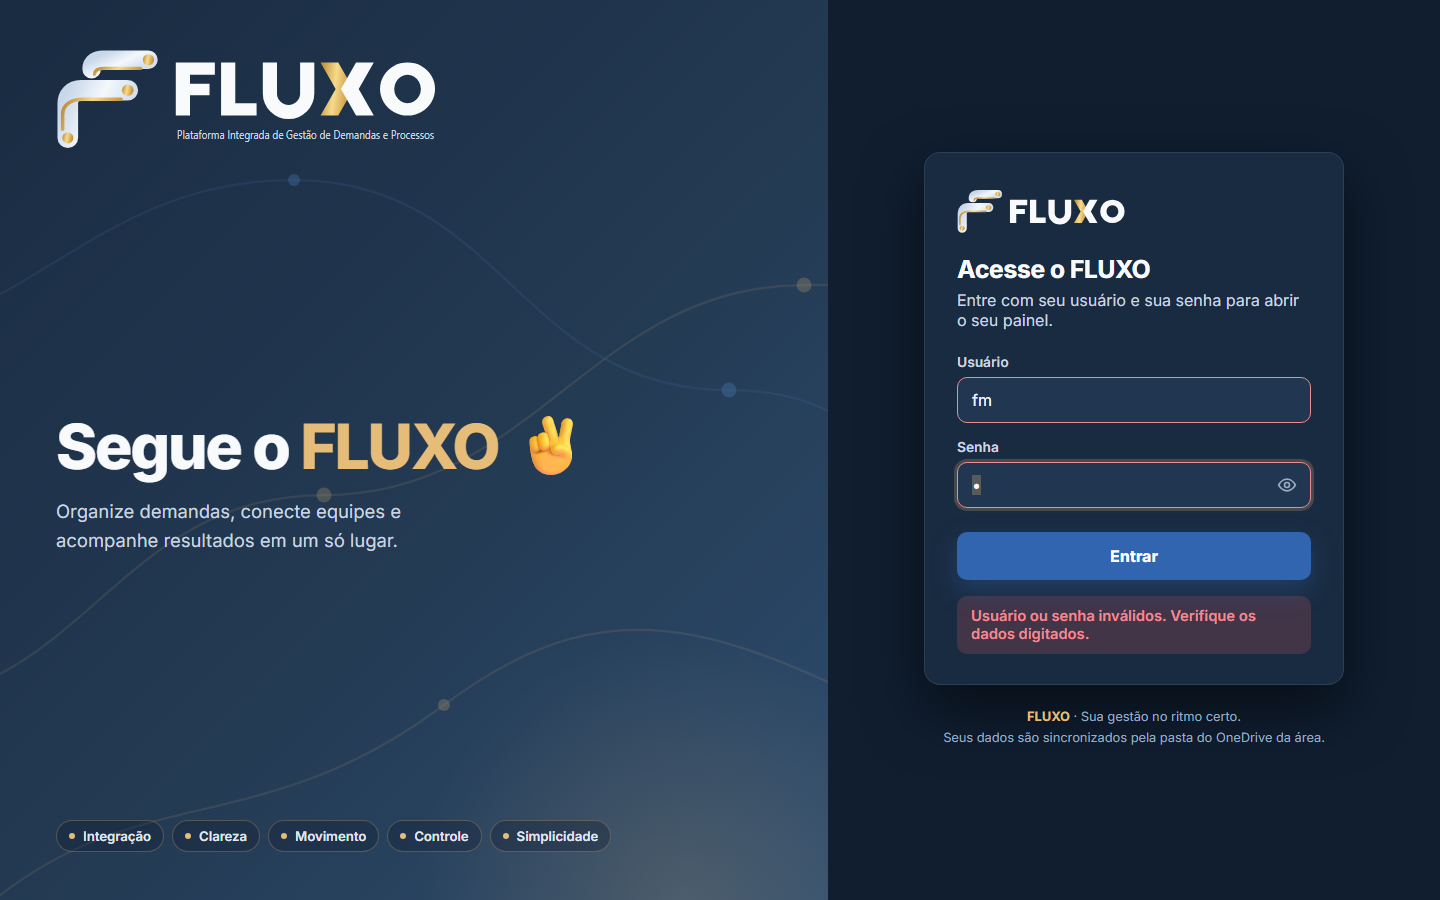
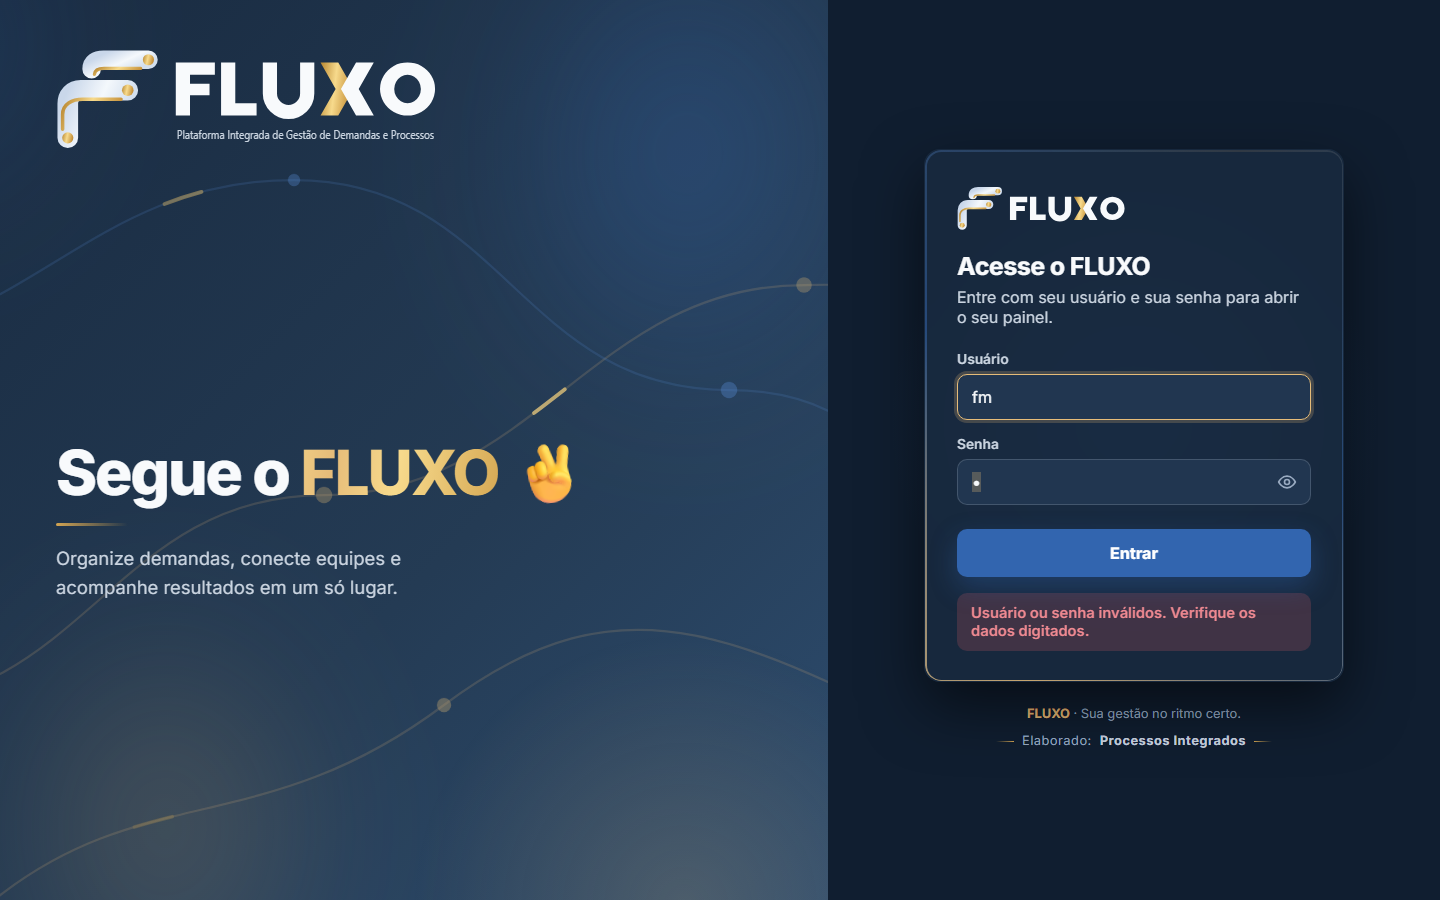
feat: login com efeitos premium e assinatura "Elaborado: Processos Integrados"
- Remove a faixa de princípios (Integração, Clareza, Movimento, Controle,
  Simplicidade).
- Rodapé: "Elaborado: Processos Integrados" no lugar do texto da pasta do
  OneDrive; o aviso de navegador só aparece fora do Edge/Chrome.
- Efeitos: rede com pulsos dourados, nós pulsando, aurora, luz do cursor,
  FLUXO dourado animado, entrada em cascata, cartão de vidro com borda viva
  e reflexo no botão Entrar; tudo para com "reduzir animações".

diff --git a/01-login/index.html b/01-login/index.html
@@ -20,10 +20,7 @@
         .fx-slogan { margin: 0; font-size: clamp(2.4rem, 4.6vw, 3.9rem); font-weight: 800; letter-spacing: -.035em; line-height: 1.02; }
         .fx-slogan span { color: var(--fx-brand); }
         .fx-mensagem { max-width: 34ch; margin: 18px 0 0; font-size: 1.15rem; line-height: 1.6; color: #CBD5E1; }
-        .fx-principios { display: flex; flex-wrap: wrap; gap: 8px; margin: 0; padding: 0; list-style: none; }
-        .fx-principios li { display: inline-flex; align-items: center; gap: 8px; padding: 7px 12px; border: 1px solid rgba(230, 188, 121, .28); border-radius: 999px; background: rgba(16, 30, 48, .35); color: #E2E8F0; font-size: .82rem; font-weight: 600; }
-        .fx-principios li::before { content: ''; width: 6px; height: 6px; border-radius: 50%; background: var(--fx-brand); }
-        .fx-desc { margin: 0; font-size: .82rem; letter-spacing: .08em; text-transform: uppercase; color: #9AABC1; }
+        .fx-intro-texto { flex: 1; display: flex; flex-direction: column; justify-content: center; }
 
         /* Formulário */
         .fx-acesso { display: flex; flex-direction: column; justify-content: center; padding: 48px clamp(24px, 5vw, 72px); background: var(--fx-bg); }
@@ -51,10 +48,63 @@
         .fx-rodape { width: min(420px, 100%); margin: 22px auto 0; text-align: center; font-size: .8rem; color: var(--fx-ink-3); line-height: 1.6; }
         .fx-rodape b { color: var(--fx-brand-ink); font-weight: 700; }
 
+        .fx-rodape .fx-elaborado { display: inline-flex; align-items: center; gap: 8px; margin-top: 6px; letter-spacing: .04em; }
+        .fx-rodape .fx-elaborado::before, .fx-rodape .fx-elaborado::after { content: ''; width: 18px; height: 1px; background: linear-gradient(90deg, rgba(210, 164, 82, 0), #D2A452); }
+        .fx-rodape .fx-elaborado::after { background: linear-gradient(90deg, #D2A452, rgba(210, 164, 82, 0)); }
+        .fx-rodape .fx-elaborado strong { color: var(--fx-ink-2); font-weight: 700; }
+        .fx-aviso { display: block; margin-top: 8px; font-size: .74rem; color: var(--fx-warning-ink, #E6BC79); }
+        .fx-aviso[hidden] { display: none; }
+        .fx-mao { font-style: normal; }
+
+        /* ===== Efeitos (premium): rede viva, aurora, luz do cursor, brilho dourado, entrada em cascata e cartão com borda viva ===== */
+        .fx-intro { --fx-mx: 30%; --fx-my: 40%; }
+        .fx-aurora { position: absolute; inset: -25%; z-index: -2; pointer-events: none; filter: blur(60px); opacity: .55;
+            background: radial-gradient(26% 30% at 72% 28%, rgba(57, 116, 198, .55), transparent 70%), radial-gradient(22% 26% at 30% 78%, rgba(230, 188, 121, .35), transparent 70%), radial-gradient(18% 22% at 12% 20%, rgba(57, 116, 198, .30), transparent 70%);
+            animation: fxAuroraLogin 20s ease-in-out infinite alternate; }
+        @keyframes fxAuroraLogin { 0% { transform: translate3d(0, 0, 0) rotate(0deg); } 50% { transform: translate3d(-5%, 4%, 0) rotate(7deg); } 100% { transform: translate3d(4%, -3%, 0) rotate(-5deg); } }
+        .fx-luz { position: absolute; inset: 0; z-index: -1; pointer-events: none; opacity: 0; transition: opacity .4s ease; background: radial-gradient(460px circle at var(--fx-mx) var(--fx-my), rgba(230, 188, 121, .14), transparent 60%); }
+        .fx-intro.fx-ativa .fx-luz { opacity: 1; }
+        .fx-rede { opacity: .75; }
+        .fx-rede-pulso path { fill: none; stroke: url(#fxOuroLogin); stroke-width: 2.5; stroke-linecap: round; stroke-dasharray: 26 560; animation: fxPulsoRede 6s linear infinite; }
+        .fx-rede-pulso path:nth-child(2) { animation-delay: 2s; animation-duration: 7s; }
+        .fx-rede-pulso path:nth-child(3) { animation-delay: 3.6s; animation-duration: 8s; }
+        @keyframes fxPulsoRede { from { stroke-dashoffset: 586; } to { stroke-dashoffset: 0; } }
+        .fx-rede-nos circle { transform-box: fill-box; transform-origin: center; animation: fxNo 3.6s ease-in-out infinite; }
+        .fx-rede-nos circle:nth-child(2n) { animation-delay: 1.2s; }
+        .fx-rede-nos circle:nth-child(3n) { animation-delay: 2.1s; }
+        @keyframes fxNo { 0%, 100% { transform: scale(1); opacity: .7; } 50% { transform: scale(1.7); opacity: 1; } }
+        .fx-slogan span { background: linear-gradient(100deg, #C6913A 0%, #F7DA8C 35%, #E6BC79 50%, #F7DA8C 65%, #C6913A 100%); background-size: 220% 100%; -webkit-background-clip: text; background-clip: text; color: transparent; animation: fxOuroTexto 6s ease-in-out infinite; }
+        @keyframes fxOuroTexto { 0%, 100% { background-position: 100% 0; } 50% { background-position: 0 0; } }
+        .fx-mao { display: inline-block; transform-origin: 70% 80%; animation: fxMao 4.5s ease-in-out 1.4s infinite; }
+        @keyframes fxMao { 0%, 78%, 100% { transform: rotate(0); } 84% { transform: rotate(-12deg); } 90% { transform: rotate(8deg); } 95% { transform: rotate(-4deg); } }
+        .fx-slogan::after { content: ''; display: block; width: 72px; height: 3px; margin-top: 18px; border-radius: 3px; background: linear-gradient(90deg, #D2A452, rgba(210, 164, 82, 0)); }
+        /* Entrada em cascata */
+        .fx-entra { animation: fxSobeLogin .7s var(--fx-ease, cubic-bezier(.2, .8, .2, 1)) backwards; }
+        .fx-entra-2 { animation-delay: .12s; } .fx-entra-3 { animation-delay: .24s; } .fx-entra-4 { animation-delay: .36s; }
+        @keyframes fxSobeLogin { from { opacity: 0; transform: translateY(16px); } to { opacity: 1; transform: none; } }
+        /* Cartão de vidro com borda viva */
+        .fx-card { position: relative; isolation: isolate; background: rgba(var(--fx-surface-rgb), .78); backdrop-filter: blur(14px); border-color: transparent; }
+        .fx-card::before { content: ''; position: absolute; inset: 0; z-index: -1; padding: 1.5px; border-radius: inherit; pointer-events: none;
+            background: conic-gradient(from var(--fx-angulo-login, 0deg), rgba(230, 188, 121, .85), rgba(57, 116, 198, .45), rgba(230, 188, 121, .12), rgba(57, 116, 198, .45), rgba(230, 188, 121, .85));
+            -webkit-mask: linear-gradient(#000 0 0) content-box, linear-gradient(#000 0 0); -webkit-mask-composite: xor; mask-composite: exclude; animation: fxBordaLogin 9s linear infinite; }
+        @property --fx-angulo-login { syntax: '<angle>'; inherits: false; initial-value: 0deg; }
+        @keyframes fxBordaLogin { to { --fx-angulo-login: 360deg; } }
+        .fx-acesso { position: relative; isolation: isolate; }
+        .fx-acesso::before { content: ''; position: absolute; left: 50%; top: 50%; width: 560px; height: 560px; transform: translate(-50%, -55%); border-radius: 50%; z-index: -1; pointer-events: none; background: radial-gradient(circle, rgba(57, 116, 198, .16), transparent 62%); }
+        .fx-entrar { position: relative; overflow: hidden; }
+        .fx-entrar::after { content: ''; position: absolute; inset: 0; background: linear-gradient(110deg, transparent 30%, rgba(255, 255, 255, .32) 50%, transparent 70%); transform: translateX(-120%); animation: fxBrilhoEntrar 5s ease-in-out 1.8s infinite; pointer-events: none; }
+        @keyframes fxBrilhoEntrar { 0%, 72% { transform: translateX(-120%); } 88%, 100% { transform: translateX(120%); } }
+        .fx-entrar:hover { box-shadow: 0 14px 32px rgba(50, 101, 175, .45); }
+        .fx-entrar:focus-visible, .fx-olho:focus-visible { outline: 2px solid #E6BC79; outline-offset: 2px; }
+        @media (prefers-reduced-motion: reduce) {
+            .fx-aurora, .fx-rede-pulso, .fx-entrar::after { display: none; }
+            .fx-rede-nos circle, .fx-slogan span, .fx-mao, .fx-card::before, .fx-entra { animation: none; }
+        }
+
         @media (max-width: 920px) {
-            body { grid-template-columns: minmax(0, 1fr); }
+            body { grid-template-columns: minmax(0, 1fr); align-content: start; }
+            .fx-acesso { justify-content: flex-start; }
             .fx-intro, .fx-acesso { min-width: 0; }
-            .fx-desc { letter-spacing: .04em; }
             .fx-intro { padding: 32px 24px 36px; gap: 24px; }
             .fx-logo { width: min(300px, 100%); }
             .fx-acesso { padding: 32px 16px 40px; }
@@ -62,30 +112,35 @@
     </style>
 </head>
 <body>
-    <section class="fx-intro" aria-label="Apresentação">
+    <section class="fx-intro" id="fxIntro" aria-label="Apresentação">
+        <span class="fx-aurora" aria-hidden="true"></span>
+        <span class="fx-luz" aria-hidden="true"></span>
         <svg class="fx-rede" viewBox="0 0 800 600" preserveAspectRatio="xMidYMid slice" aria-hidden="true">
+            <defs><linearGradient id="fxOuroLogin" x1="0" y1="0" x2="1" y2="0"><stop offset="0" stop-color="#B8862F" stop-opacity="0"/><stop offset=".5" stop-color="#F7DA8C"/><stop offset="1" stop-color="#C6913A"/></linearGradient></defs>
             <g fill="none" stroke="rgba(230,188,121,.22)" stroke-width="1.5">
                 <path d="M40 470 C 180 470, 200 330, 340 330 S 520 190, 660 190 S 780 120, 800 110"/>
                 <path d="M0 230 C 140 230, 180 120, 320 120 S 470 260, 610 260 S 740 400, 800 400" stroke="rgba(91,146,221,.22)"/>
                 <path d="M120 600 C 220 520, 300 560, 420 470 S 620 420, 800 520"/>
             </g>
-            <g fill="rgba(230,188,121,.45)"><circle cx="340" cy="330" r="5"/><circle cx="660" cy="190" r="5"/><circle cx="420" cy="470" r="4"/></g>
-            <g fill="rgba(91,146,221,.5)"><circle cx="320" cy="120" r="4"/><circle cx="610" cy="260" r="5"/></g>
+            <g class="fx-rede-pulso">
+                <path d="M40 470 C 180 470, 200 330, 340 330 S 520 190, 660 190 S 780 120, 800 110"/>
+                <path d="M0 230 C 140 230, 180 120, 320 120 S 470 260, 610 260 S 740 400, 800 400"/>
+                <path d="M120 600 C 220 520, 300 560, 420 470 S 620 420, 800 520"/>
+            </g>
+            <g class="fx-rede-nos">
+                <circle cx="340" cy="330" r="5" fill="rgba(230,188,121,.55)"/><circle cx="660" cy="190" r="5" fill="rgba(230,188,121,.55)"/><circle cx="420" cy="470" r="4" fill="rgba(230,188,121,.55)"/>
+                <circle cx="320" cy="120" r="4" fill="rgba(91,146,221,.6)"/><circle cx="610" cy="260" r="5" fill="rgba(91,146,221,.6)"/>
+            </g>
         </svg>
-        <img class="fx-logo" src="../02-usuario/app/marca/fluxo-logo-dark.svg" alt="FLUXO · Plataforma Integrada de Gestão de Demandas e Processos">
-        <div>
-            <h1 class="fx-slogan">Segue o <span>FLUXO</span> ✌</h1>
-            <p class="fx-mensagem">Organize demandas, conecte equipes e acompanhe resultados em um só lugar.</p>
-        </div>
-        <div>
-            <ul class="fx-principios" aria-label="Princípios">
-                <li>Integração</li><li>Clareza</li><li>Movimento</li><li>Controle</li><li>Simplicidade</li>
-            </ul>
+        <img class="fx-logo fx-entra" src="../02-usuario/app/marca/fluxo-logo-dark.svg" alt="FLUXO · Plataforma Integrada de Gestão de Demandas e Processos">
+        <div class="fx-intro-texto">
+            <h1 class="fx-slogan fx-entra fx-entra-2">Segue o <span>FLUXO</span> <i class="fx-mao" aria-hidden="true">✌</i></h1>
+            <p class="fx-mensagem fx-entra fx-entra-3">Organize demandas, conecte equipes e acompanhe resultados em um só lugar.</p>
         </div>
     </section>
 
     <main class="fx-acesso">
-        <form class="fx-card" id="loginForm" autocomplete="on" novalidate aria-describedby="loginAlert">
+        <form class="fx-card fx-entra fx-entra-2" id="loginForm" autocomplete="on" novalidate aria-describedby="loginAlert">
             <span class="fx-card-marca"><img class="fx-claro" src="../02-usuario/app/marca/fluxo-logo-horizontal.svg" alt="FLUXO"><img class="fx-escuro" src="../02-usuario/app/marca/fluxo-logo-horizontal-dark.svg" alt="FLUXO"></span>
             <h2>Acesse o FLUXO</h2>
             <p>Entre com seu usuário e sua senha para abrir o seu painel.</p>
@@ -105,7 +160,7 @@
             <button class="fx-entrar" type="submit" id="loginEntrar">Entrar</button>
             <div class="fx-alerta" id="loginAlert" role="alert" aria-live="assertive"></div>
         </form>
-        <p class="fx-rodape"><b>FLUXO</b> · Sua gestão no ritmo certo.<br><span id="loginStatus">Para sincronizar com a pasta do OneDrive, use o Microsoft Edge ou o Google Chrome no computador.</span></p>
+        <p class="fx-rodape fx-entra fx-entra-4"><b>FLUXO</b> · Sua gestão no ritmo certo.<br><span class="fx-elaborado">Elaborado: <strong>Processos Integrados</strong></span><span class="fx-aviso" id="loginStatus" hidden>Para sincronizar com a pasta do OneDrive, use o Microsoft Edge ou o Google Chrome no computador.</span></p>
     </main>
 
     <script src="perfis.js"></script>
@@ -165,8 +220,19 @@
                 }, 300);
             });
 
-            if ('showDirectoryPicker' in window) {
-                document.getElementById('loginStatus').textContent = 'Seus dados são sincronizados pela pasta do OneDrive da área.';
+            // Navegador sem acesso a pastas (Firefox, Safari, celular): avisa abaixo da assinatura
+            if (!('showDirectoryPicker' in window)) document.getElementById('loginStatus').hidden = false;
+
+            // Luz que acompanha o cursor na área institucional (só com mouse e sem "reduzir animações")
+            var intro = document.getElementById('fxIntro');
+            if (window.matchMedia('(pointer: fine)').matches && !window.matchMedia('(prefers-reduced-motion: reduce)').matches) {
+                intro.addEventListener('pointermove', function (e) {
+                    var r = intro.getBoundingClientRect();
+                    intro.style.setProperty('--fx-mx', ((e.clientX - r.left) / r.width * 100) + '%');
+                    intro.style.setProperty('--fx-my', ((e.clientY - r.top) / r.height * 100) + '%');
+                    intro.classList.add('fx-ativa');
+                });
+                intro.addEventListener('pointerleave', function () { intro.classList.remove('fx-ativa'); });
             }
         })();
     </script>

diff --git a/02-usuario/app/marca/README.md b/02-usuario/app/marca/README.md
@@ -44,8 +44,8 @@ A palavra FLUXO é desenhada como vetor (não é texto em fonte). Por isso apare
 | Barra do topo direito | Nome do usuário conectado (dinâmico) | Sair |
 | Menu lateral recolhido | Só o símbolo |
 | Início (analista e supervisão) | Capa de largura total: à esquerda, logo completa com descrição e slogan, saudação, estados da pasta e a área "Comece por aqui"; à direita, a ilustração animada com etiquetas de números e legenda. Os cartões de atalho vêm abaixo |
-| Login: área institucional | Logo completa (versão escura) no topo esquerdo |
-| Login: cartão de acesso | Símbolo + FLUXO, acima de "Acesse o FLUXO" |
+| Login: área institucional | Logo completa (versão escura) no topo esquerdo; "Segue o FLUXO ✌" com FLUXO em dourado animado. Efeitos: rede com pulsos dourados, nós pulsando, aurora e luz que segue o cursor |
+| Login: cartão de acesso | Símbolo + FLUXO, acima de "Acesse o FLUXO". Cartão de vidro com borda viva (dourado ↔ azul) e reflexo no botão Entrar. Abaixo: "FLUXO · Sua gestão no ritmo certo." e "Elaborado: Processos Integrados". Com "reduzir animações", os movimentos param |
 | Telas internas (Tarefas, Workflow, Indicadores, Validação, Ausência, Pasta e backup, Dashboard) | Marca compacta do menu lateral; a logo completa não se repete |
 | Aba do navegador | `fluxo-favicon.svg` |
 
